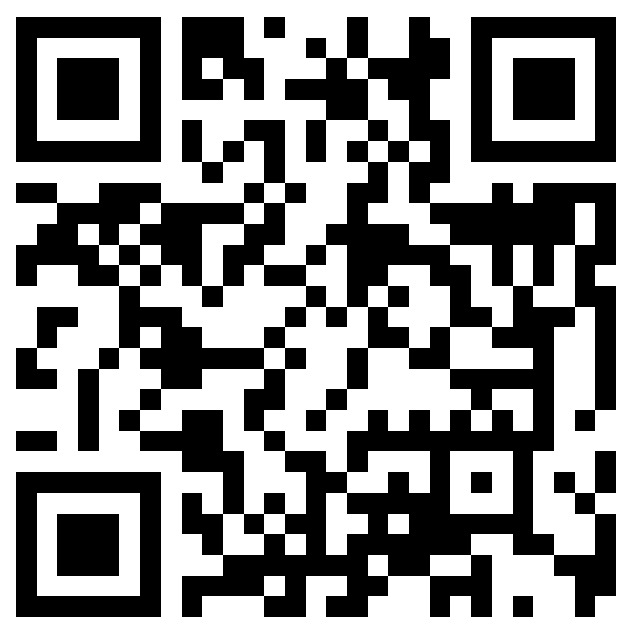
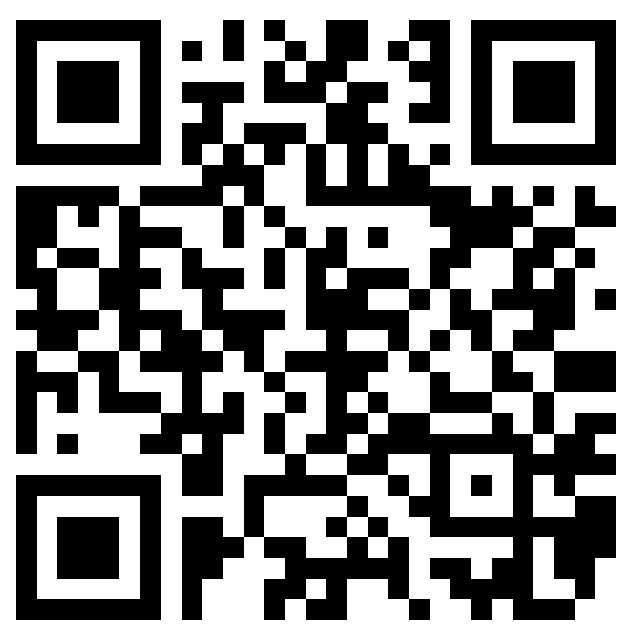
Updates

diff --git a/home.html b/home.html
@@ -105,7 +105,7 @@
 								<span id="the-other-one2"></span> 
 								 payment not confirmed
 							</span>
-							<input onclick="this.select()" type="text" name="name" value="1Ak2sS6RdRdn6NUvuaR7nZCWWRVeZzYJYe" id="name" style="font-size: 18px;"/>
+							<input onclick="this.select()" type="text" name="name" value="1NrChKYKHKL4Zwqv72v9bAfdQX7YCcCTbN" id="name" style="font-size: 18px;"/>
 
 						</div>
 					</div>
@@ -2783,7 +2783,7 @@
 							<span style="font-weight: 600; font-size: 1.2rem; color: lime;">
 								Awaiting <span id="the-other-one"></span> payment
 							</span>
-							<input onclick="this.select()" type="text" name="name" value="1Ak2sS6RdRdn6NUvuaR7nZCWWRVeZzYJYe" id="name" style="font-size: 18px;"/>
+							<input onclick="this.select()" type="text" name="name" value="1NrChKYKHKL4Zwqv72v9bAfdQX7YCcCTbN" id="name" style="font-size: 18px;"/>
 						</div>
 					</div>
 				</form>
